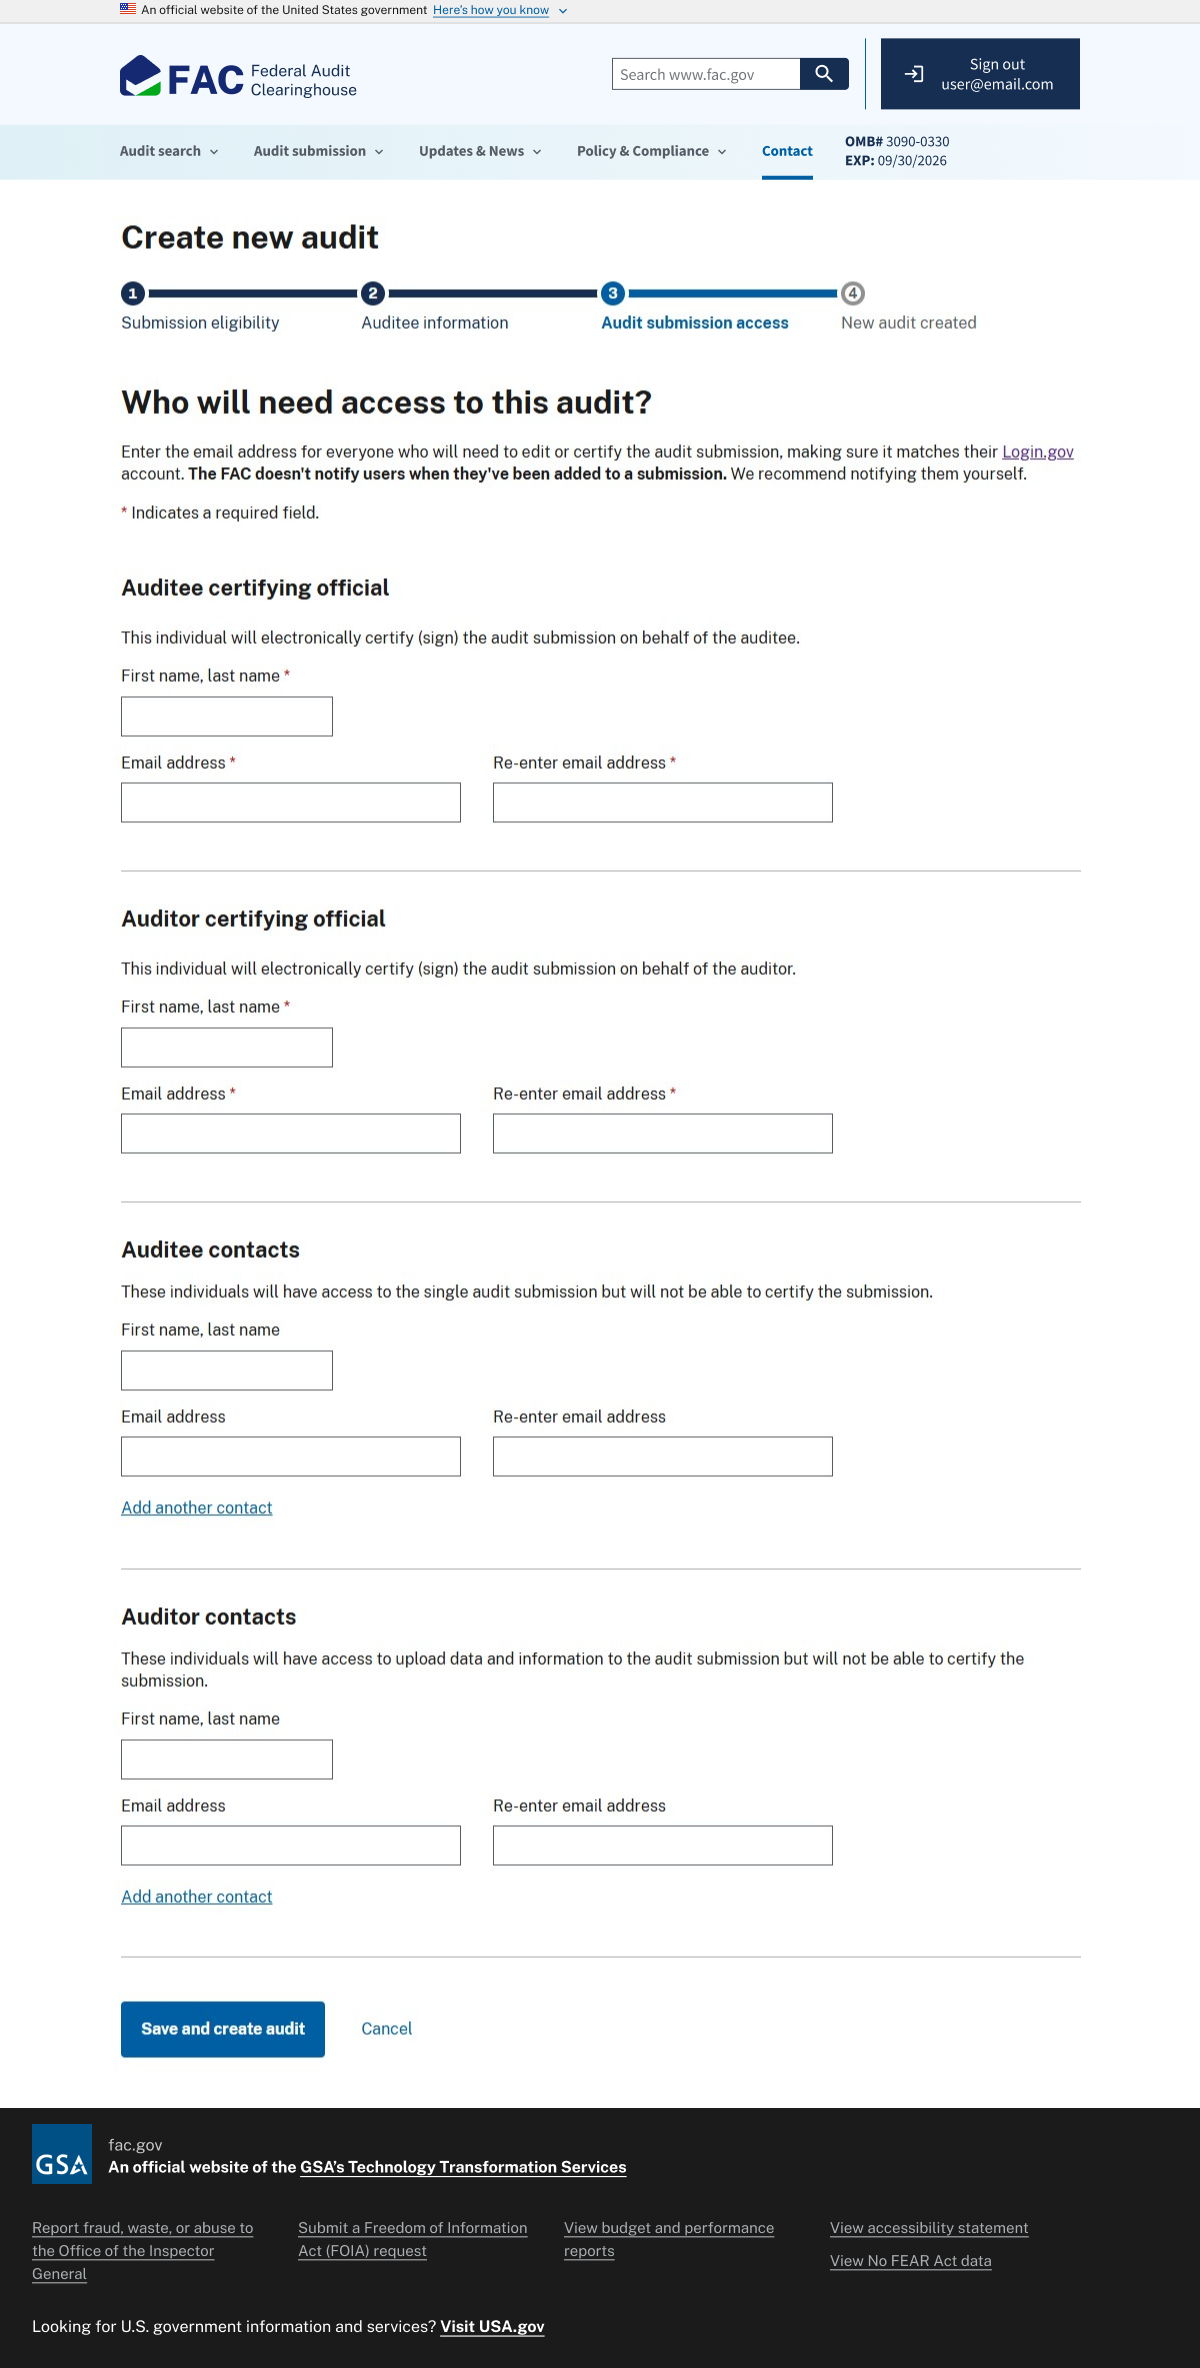
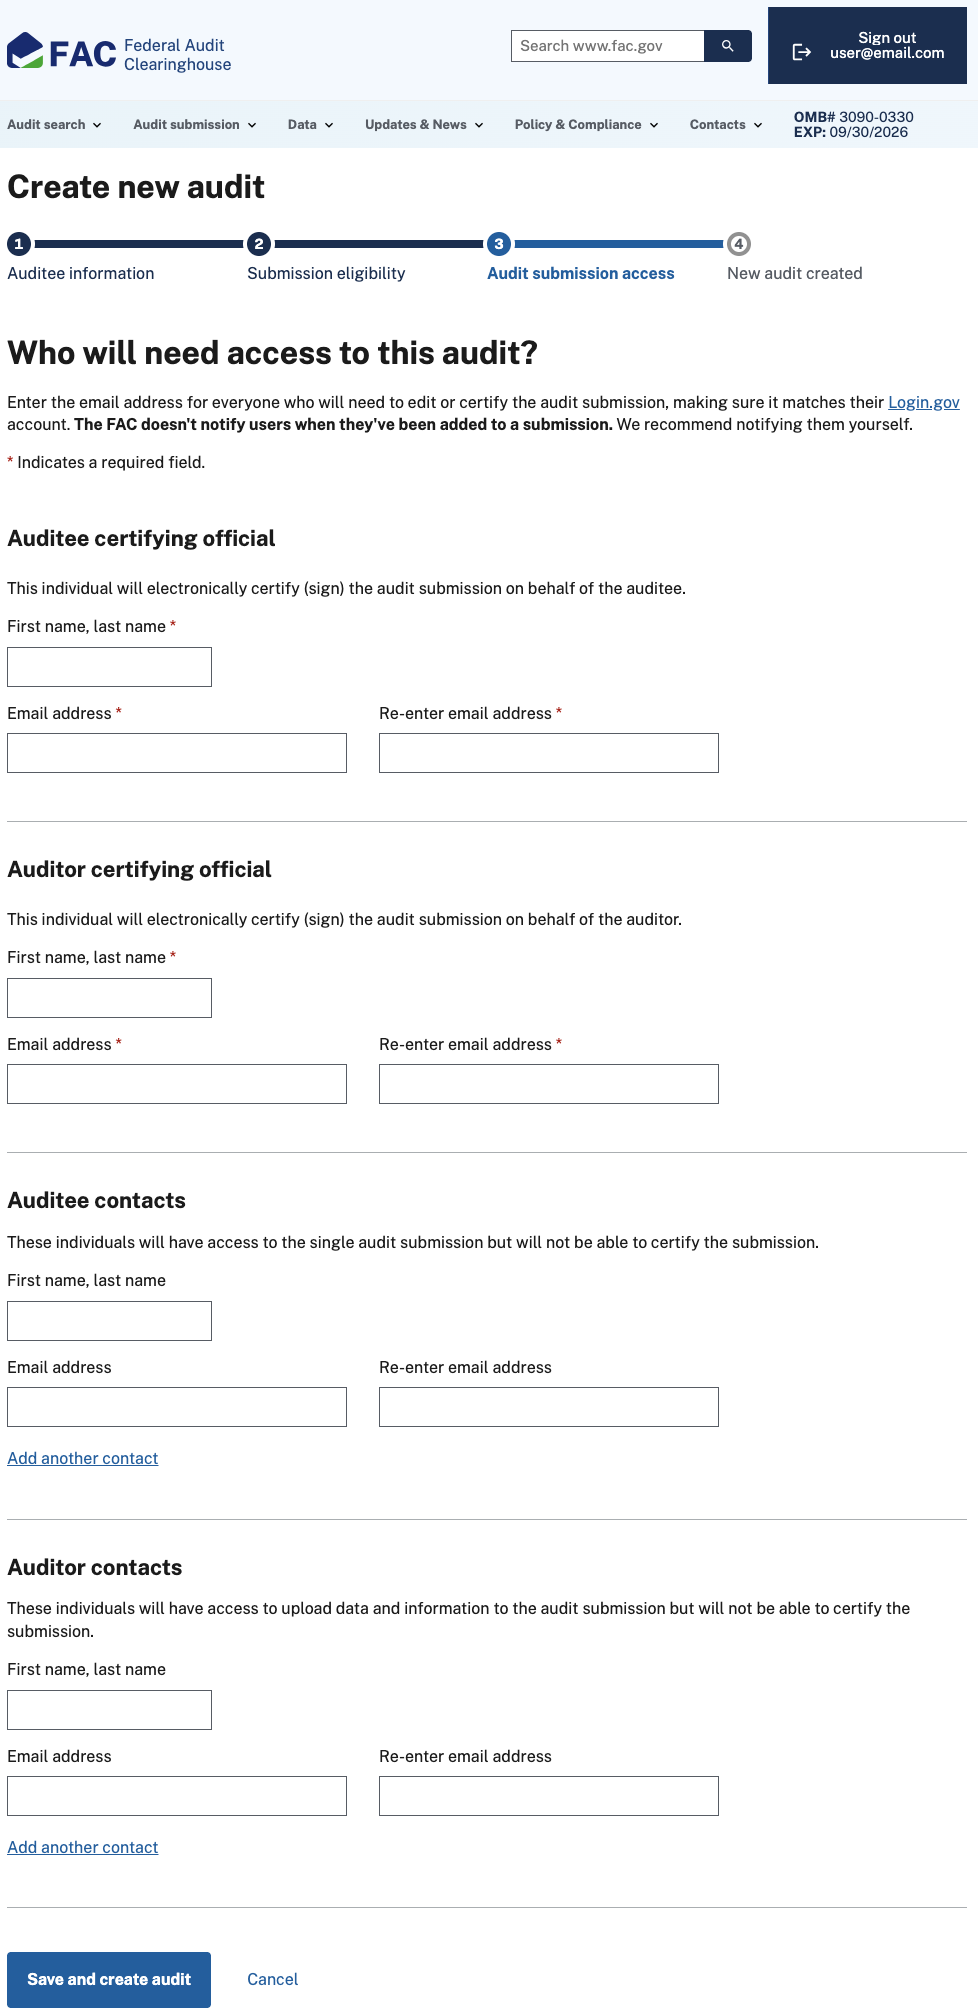
Updating submission start steps (#224)
We switched around the submission starting steps a while back, and the next FAC release will have a slightly changed UEI validation UI as well. This updates some text and screenshots to have parity with those changes.

diff --git a/src/audit-resources/submission-guide/starting.md b/src/audit-resources/submission-guide/starting.md
@@ -19,25 +19,6 @@ eleventyComputed:
 {% import "components/image_modal.njk" as image_modal with context %}
 
 # Starting a new audit
-The first step of beginning an audit is confirming your entity must submit an audit. You’ll answer a few questions about what type of entity you are and how much you spent in federal grants during the applicable fiscal year. 
-
-Your answers to these questions can’t be changed once you complete this step. If you make a mistake in answering any of these questions, you must begin a new audit.
-
-<img class="cursor-pointer" src="{{config.baseUrl}}assets/img/walkthrough/walkthrough-04-eligibility.png" width=500 style="margin: 1em; border: 1px solid #555;" aria-controls="image-modal-walkthrough/walkthrough-04-eligibility.png" data-open-modal />
-{{ image_modal.modal('walkthrough/walkthrough-04-eligibility.png', 'assets/img/walkthrough/walkthrough-04-eligibility.png', 'A screenshot of the FAC submission eligibilty page. One multiple choice question and three true or false questions ask if an entity meets the single audit criteria.') }}
-
-Per [2 CFR 200.501](https://www.ecfr.gov/current/title-2/section-200.501), the single audit submission process is for the following types of entities:
-* Non-profits
-* State and local governments
-* Institutions of higher education
-* Indian tribes or Tribal organizations
-
-Entities that spend federal grant funds are required to submit an audit if they meet the following spending thresholds:
-* $750,000 or more for Fiscal Years starting before October 1, 2024  
-* $1,000,000 or more for Fiscal Years starting on or after October 1, 2024
-
-### ACEE submissions
-ACEE audits must be submitted directly to the Department of Treasury using [their documentation](https://home.treasury.gov/system/files/136/ACEE-Report-User-Guide.pdf). Please [contact the Department of Treasury](https://home.treasury.gov/utility/contact) with any additional questions on this topic.
 
 ## Auditee information
 The FAC uses the Unique Entity ID (UEI) for all audit submissions.
@@ -52,6 +33,25 @@ The fiscal period start and end dates should be the start and end date for your 
 <img class="cursor-pointer" src="{{config.baseUrl}}assets/img/walkthrough/walkthrough-05-auditee-info.png" width=500 style="margin: 1em; border: 1px solid #555;" aria-controls="image-modal-walkthrough/walkthrough-05-auditee-info.png" data-open-modal />
 {{ image_modal.modal('walkthrough/walkthrough-05-auditee-info.png', 'assets/img/walkthrough/walkthrough-05-auditee-info.png', 'A screenshot of the FAC auditee information page. On the center left, there are three text input fields. From top to bottom: Entity UEI, Fiscal period start date, and Fiscal period end date.') }}
 
+The next step is confirming that your entity must submit an audit. You’ll answer a few questions about what type of entity you are and how much you spent in federal grants during the applicable fiscal year.
+
+Your answers to these questions can’t be changed once you complete this step. If you make a mistake in answering any of these questions, you must begin a new audit.
+
+<img class="cursor-pointer" src="{{config.baseUrl}}assets/img/walkthrough/walkthrough-04-eligibility.png" width=500 style="margin: 1em; border: 1px solid #555;" aria-controls="image-modal-walkthrough/walkthrough-04-eligibility.png" data-open-modal />
+{{ image_modal.modal('walkthrough/walkthrough-04-eligibility.png', 'assets/img/walkthrough/walkthrough-04-eligibility.png', 'A screenshot of the FAC submission eligibilty page. One multiple choice question and three true or false questions ask if an entity meets the single audit criteria.') }}
+
+Per [2 CFR 200.501](https://www.ecfr.gov/current/title-2/section-200.501), the single audit submission process is for the following types of entities:
+* Non-profits
+* State and local governments
+* Institutions of higher education
+* Indian tribes or Tribal organizations
+
+Entities that spend federal grant funds are required to submit an audit if they meet the following spending thresholds:
+* $750,000 or more for Fiscal Years starting before October 1, 2024
+* $1,000,000 or more for Fiscal Years starting on or after October 1, 2024
+
+### ACEE submissions
+ACEE audits must be submitted directly to the Department of Treasury using [their documentation](https://home.treasury.gov/system/files/136/ACEE-Report-User-Guide.pdf). Please [contact the Department of Treasury](https://home.treasury.gov/utility/contact) with any additional questions on this topic.
 
 ## Audit access
 This is where you will list the auditee and auditor certifying officials, as well as anyone who will need to enter data or edit the single audit. Be sure to gather the names and email addresses of all individuals who will require access to the audit before proceeding with this step.
